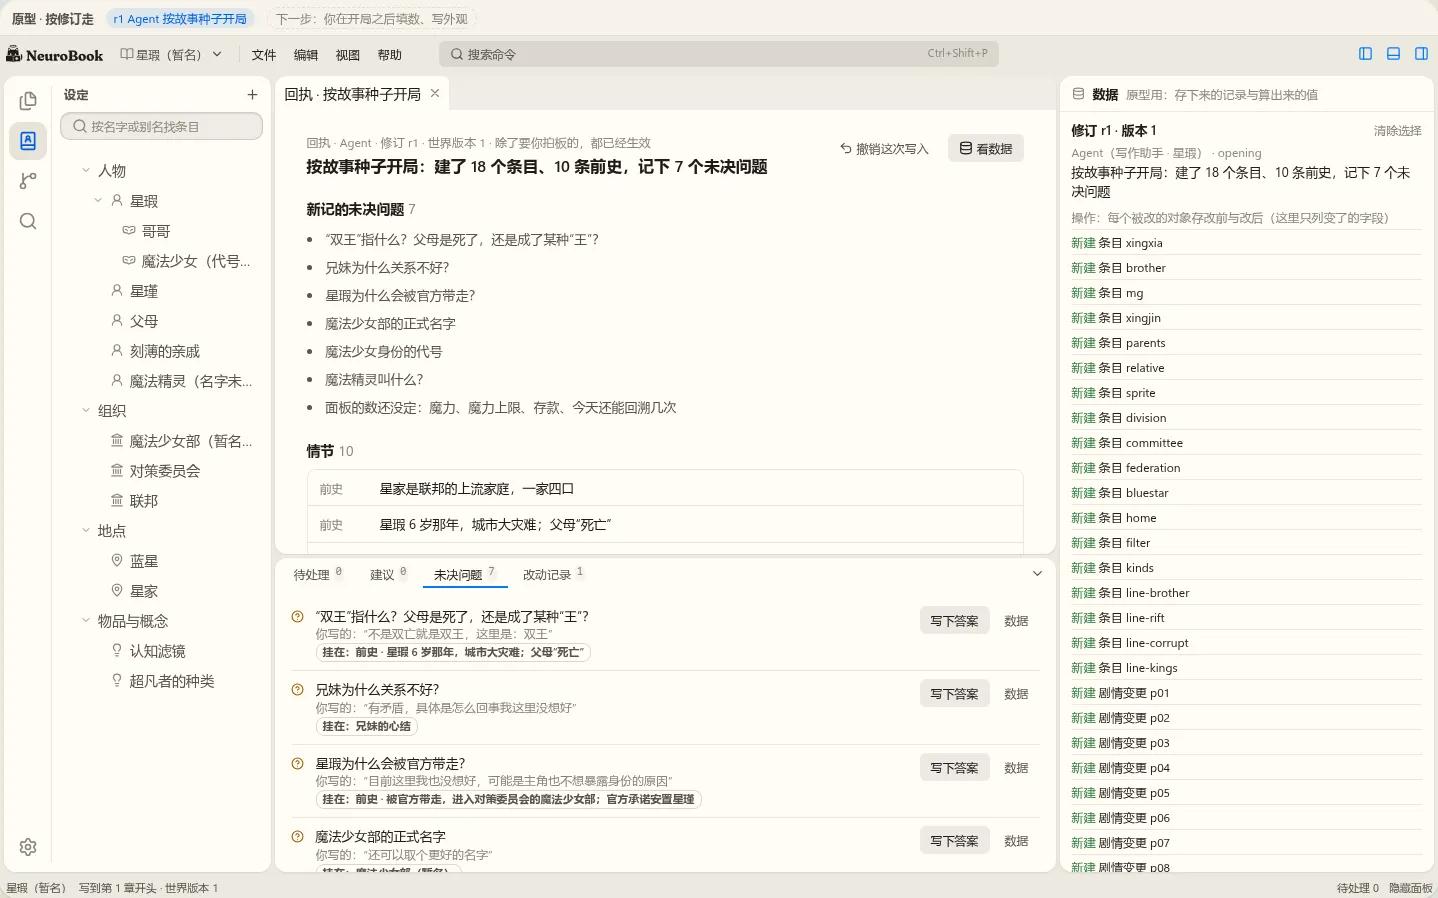
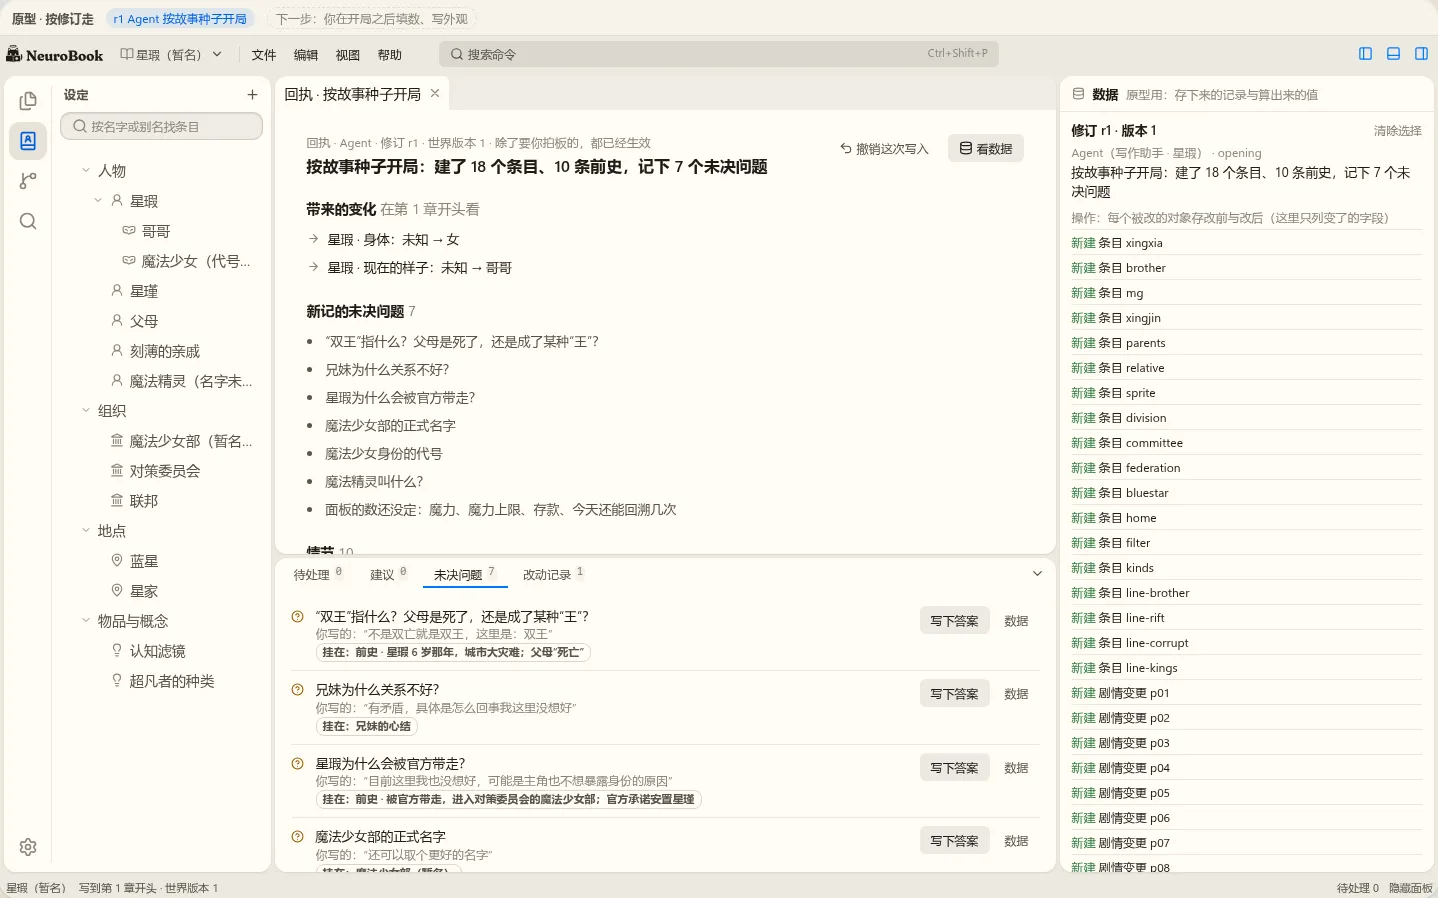
docs(w00039): t16 发布 review v3

Changed region(s): [[0.2142, 0.2183, 0.459, 0.6236]]

diff --git a/.agents/works/w00039-novel-writing-plugins/tasks/t16-plot-workbench-ui/artifacts/review/index.html b/.agents/works/w00039-novel-writing-plugins/tasks/t16-plot-workbench-ui/artifacts/review/index.html
@@ -63,7 +63,7 @@ ol.week li { margin: 2px 0; }
 
 <section class="q" data-nbdev-question="r2-data" data-nbdev-type="text" data-nbdev-optional>
 <h2>看完数据长什么样，有没有和你理解的不一样的地方？ <span class="badge todo" data-nbdev-skip>待定</span></h2>
-<p>选答。下面“做数据结构时发现的”第 3、5、6 条会改到已接受提案里的说法，我在会话里另外问。</p>
+<p>选答。下面“做数据结构时发现的”第 3、6、11 条会改到已接受提案里的说法，我在会话里另外问。</p>
 </section>
 
 <section class="s">
@@ -130,6 +130,7 @@ ol.week li { margin: 2px 0; }
 <tr><td>7</td><td><b>计划与正文的差额不用存。</b>计划写 −10,000，正文两笔合计 −20,300，回执现算出来。</td><td>图 3 回执的“计划”一节</td></tr>
 <tr><td>8</td><td><b>找旧写法要字段声明“会在正文里重述”。</b>原身外观、性格、马甲的“这个身份的样子”有这个标记，数字没有。找的范围是正文、细纲、别的条目的这类字段；判断交给 Agent。</td><td>字段定义上的 <code>retold</code></td></tr>
 <tr><td>9</td><td><b>还原的依赖按字段算是可行的。</b>还原第 2 章的记账，找到你改蛋糕（同一条变更的同一个补丁）和改设定（同一条待定变更）两次依赖；还原你开局后填的数，只找到改外观那次。</td><td>图 9</td></tr>
+<tr><td>11</td><td><b>你的改动也有回执，但回执里的“带来的变化”要在发布时存下来。</b>开发者 11-02 问“作者的改动没有回执吗”：原来的回执只列新建的东西，改已有记录时几乎是空的。现在任何一次修订都有同一个回执页，多了“改了什么”（按字段，用作者的话）和“带来的变化”（修订前后在写到的位置上比：待处理少了哪些、多了哪些，碰到的值从多少变成多少）；小改动保存后先给一行提示，可以看回执或撤销。“带来的变化”要比较修订前后的世界，原型靠重放算；产品里不承诺按任意历史版本重算，所以要在发布时把它算好存进修订，它和保存前的预览是同一个计算。</td><td>图 6 下方的提示条；图 11</td></tr>
 <tr><td>10</td><td><b>引用别的条目读到未知。</b>主 MDX 里 <code>{ref("brother").identity.外观}</code> 读到未知：给作者显示“未知”，给 Agent 写成 <code>null</code> 加“（未知）”。</td><td>图 2 右栏下面的两段</td></tr>
 </tbody>
 </table>
@@ -141,10 +142,11 @@ ol.week li { margin: 2px 0; }
 <section class="s" id="p03"><h2>p03 第 2 章的回执</h2><figure><img src="r2/p03-receipt.webp" alt="第 2 章回执"><figcaption>情节排在前面，状态的改动作为每条情节下面的一行；计划的差额是现算的。右栏是这次修订的 8 个操作</figcaption></figure></section>
 <section class="s" id="p04"><h2>p04 待处理：存款对不上</h2><figure><img src="r2/p04-pending.webp" alt="待处理"><figcaption>右栏是核对点 k2 存下来的样子。嫌疑区间是折叠时现算的，每一笔直接“改这一笔”</figcaption></figure></section>
 <section class="s" id="p05"><h2>p05 变更详情：把蛋糕改成 −2,000</h2><figure><img src="r2/p05-change.webp" alt="变更详情"><figcaption>保存前，引擎在一份副本上发布一次，比较前后的待处理，得出预览。右栏是 c15 改之前存下来的样子</figcaption></figure></section>
-<section class="s" id="p06"><h2>p06 保存以后：面板与流水</h2><figure><img src="r2/p06-panel.webp" alt="面板"><figcaption>流水就是存款的来历；两个核对点都对上了。右栏是你这次修订：只有 c15 的一个补丁从 −300 变成 −2,000</figcaption></figure></section>
+<section class="s" id="p06"><h2>p06 保存以后：面板与流水</h2><figure><img src="r2/p06-panel.webp" alt="面板"><figcaption>流水就是存款的来历；两个核对点都对上了。右栏是你这次修订：只有 c15 的一个补丁从 −300 变成 −2,000。下方是保存后的一行提示：待处理少了 1 条、存款从 21,500 变成 19,800，可以看回执或撤销</figcaption></figure></section>
 <section class="s" id="p07"><h2>p07 “现在的样子”怎么来的</h2><figure><img src="r2/p07-shape.webp" alt="人物 Tab"><figcaption>初值“原身”（男生时的样子）→ 前史 p04 魔法少女 → 前史 p11 哥哥 → 第 1 章 c11 原身 → 第 2 章 c16 哥哥（发现 3）</figcaption></figure></section>
 <section class="s" id="p08"><h2>p08 头发按正文改设定以后</h2><figure><img src="r2/p08-suggestions.webp" alt="建议"><figcaption>右栏是“按正文改设定”那次修订：c18 从待定变成已撤销，星瑕初值的原身外观从银白变成淡金色（发现 2）。下面是 Agent 给的建议</figcaption></figure></section>
 <section class="s" id="p09"><h2>p09 还原第 2 章的记账</h2><figure><img src="r2/p09-revert.webp" alt="改动记录"><figcaption>按字段找出依赖：r7、r8 改过这次写下的同一处，只能连同一起还原（发现 9）</figcaption></figure></section>
+<section class="s" id="p11"><h2>p11 你的改动也有回执</h2><figure><img src="r2/p11-author-receipt.webp" alt="作者改动的回执"><figcaption>“按正文改设定”那一次：改了什么（那条待定的情节被撤销、星瑕初值的原身外观改成淡金色），带来的变化（待处理少了一条，原身外观变了）。旁边的标签是你改蛋糕那一次的回执（发现 11）</figcaption></figure></section>
 <section class="s" id="p10"><h2>p10 剧情容器与剧情表</h2><figure><img src="r2/p10-plot.webp" alt="剧情表"><figcaption>剧情线不在设定里了：活动栏单独一个“剧情”，有剧情表、四条剧情线、三个未排章的计划。表格是从剧情变更现算的</figcaption></figure></section>
 
 <div class="round">第 1 轮</div>
